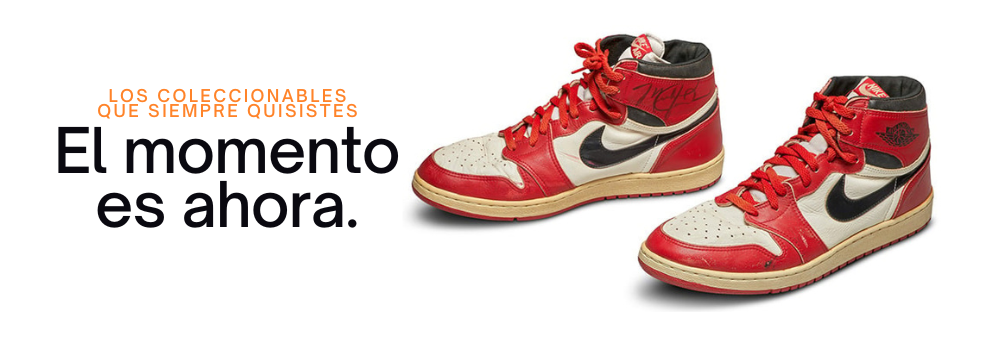
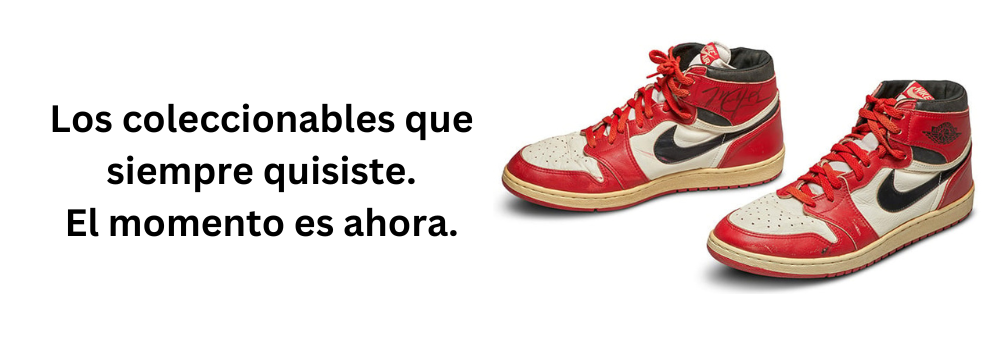
Cambiar imagenes del carrusel. (importante), Poder ver la contraseña cuando la escribo(ICONO), Hacer el carrusel mas pequeño.

diff --git a/src/components/EditPassword/EditPassword.jsx b/src/components/EditPassword/EditPassword.jsx
@@ -2,6 +2,8 @@ import React from 'react'
 import { useState } from 'react';
 import axios from 'axios';
 import { getDataUser } from '../../services/Auth';
+import { RiEyeFill, RiEyeOffFill } from 'react-icons/ri';
+
 
 function EditPassword({user}) {
   const idUser = getDataUser().id
@@ -14,6 +16,12 @@ function EditPassword({user}) {
 
   const [error, setError] = useState("");
   const [success, setSuccess] = useState('');
+  const [showPassword, setShowPassword] = useState(false);
+
+  const togglePasswordVisibility = () => {
+    setShowPassword(!showPassword);
+  };
+
 
   const validatePassword = (password,newPassword,confirmPassword) => {
     // Validación de contraseña utilizando una expresión regular
@@ -87,7 +95,7 @@ function EditPassword({user}) {
         </h2>
       </div>
       <form className="mt-6" onSubmit={handleSubmit}>
-        <div className="mb-4">
+        <div className="relative mb-4">
           <label
             htmlFor="password"
             className="block text-gray-700 text-sm font-medium"
@@ -96,13 +104,20 @@ function EditPassword({user}) {
           </label>
           <input
             name="password"
-            type="password"
+            type={showPassword ? 'text' : 'password'}
             className="mt-1 px-4 py-2 w-full border border-gray-300 rounded-md focus:outline-none focus:border-secondary-100"
             placeholder="Ultima contraseña"
             required
             value={formData.password}
             onChange={(e) => setformData({ ...formData, password: e.target.value })}
           />
+          <button
+              type="button"
+              onClick={togglePasswordVisibility}
+              className="absolute right-2 top-9 text-gray-600 hover:text-gray-800"
+            >
+              {showPassword ? <RiEyeOffFill /> : <RiEyeFill />}
+          </button>
         </div>
         <div className="mb-4">
           <label
@@ -113,7 +128,7 @@ function EditPassword({user}) {
           </label>
           <input
             name="newPassword"
-            type="password"
+            type={showPassword ? 'text' : 'password'}
             className="mt-1 px-4 py-2 w-full border border-gray-300 rounded-md focus:outline-none focus:border-secondary-100"
             placeholder="Nueva Contraseña"
             required
@@ -130,7 +145,7 @@ function EditPassword({user}) {
           </label>
           <input
             name="confirmPassword"
-            type="password"
+            type={showPassword ? 'text' : 'password'}
             className="mt-1 px-4 py-2 w-full border border-gray-300 rounded-md focus:outline-none focus:border-secondary-100"
             placeholder="Nueva Contraseña"
             value={formData.confirmPassword}

diff --git a/src/components/Register/RegisterComponent.jsx b/src/components/Register/RegisterComponent.jsx
@@ -1,6 +1,7 @@
 import React, { useState } from "react";
 import axios from "axios";
 import { useNavigate } from "react-router-dom";
+import { RiEyeFill, RiEyeOffFill } from 'react-icons/ri';
 
 function RegisterComponent() {
   const navigate = useNavigate();
@@ -15,6 +16,12 @@ function RegisterComponent() {
 
   const [error, setError] = useState("");
   const [success, setSuccess] = useState("");
+  const [showPassword, setShowPassword] = useState(false);
+
+  const togglePasswordVisibility = () => {
+    setShowPassword(!showPassword);
+  };
+
 
   const handleSubmit = (e) => {
     e.preventDefault();
@@ -167,7 +174,7 @@ function RegisterComponent() {
               />
             </div>
           </div>
-          <div className="grid grid-cols-2 gap-4 mb-6">
+          <div className="relative grid grid-cols-2 gap-4 mb-6">
             <div>
               <label
                 htmlFor="password"
@@ -176,7 +183,7 @@ function RegisterComponent() {
                 Contraseña
               </label>
               <input
-                type="password"
+                type={showPassword ? 'text' : 'password'}
                 name="password"
                 id="password"
                 onChange={handleInputChange}
@@ -184,6 +191,13 @@ function RegisterComponent() {
                 className="mt-1 px-4 py-2 w-full border border-gray-300 rounded-md focus:outline-none focus:border-secondary-200"
                 required
               />
+              <button
+                type="button"
+                onClick={togglePasswordVisibility}
+                className="absolute right-3 top-11 transform -translate-y-1/2 text-gray-600 hover:text-gray-800"
+              >
+                {showPassword ? <RiEyeOffFill /> : <RiEyeFill />}
+              </button>
             </div>
             <div>
               <label
@@ -193,7 +207,7 @@ function RegisterComponent() {
                 Confirmar Contraseña
               </label>
               <input
-                type="password"
+                type={showPassword ? 'text' : 'password'}
                 name="confirmPassword"
                 id="confirmPassword"
                 onChange={handleInputChange}
@@ -201,6 +215,7 @@ function RegisterComponent() {
                 className="mt-1 px-4 py-2 w-full border border-gray-300 rounded-md focus:outline-none focus:border-secondary-200"
                 required
               />
+              
             </div>
           </div>
           <div className="mb-6 flex items-start">

diff --git a/src/components/login/LoginComponent.jsx b/src/components/login/LoginComponent.jsx
@@ -2,6 +2,7 @@ import { useState } from "react";
 import { loginBackend } from "../../services/Auth";
 import { useAuthContext } from "../../contexts/authContext";
 import { Link } from "react-router-dom";
+import { RiEyeFill, RiEyeOffFill } from 'react-icons/ri';
 
 function LoginComponent() {
   const { login } = useAuthContext();
@@ -10,6 +11,11 @@ function LoginComponent() {
     password: "",
   });
   const [error, setError] = useState("");
+  const [showPassword, setShowPassword] = useState(false);
+
+  const togglePasswordVisibility = () => {
+    setShowPassword(!showPassword);
+  };
 
   const handleInputChange = (e) => {
     setError("");
@@ -84,21 +90,30 @@ function LoginComponent() {
               required
             />
           </div>
-          <div className="mb-4">
+          <div className="relative mb-4">
             <label
               htmlFor="password"
               className="block text-gray-700 text-sm font-medium"
             >
               Contraseña
             </label>
-            <input
-              name="password"
-              onChange={handleInputChange}
-              type="password"
-              className="mt-1 px-4 py-2 w-full border border-gray-300 rounded-md focus:outline-none focus:border-secondary-100"
-              placeholder="Tu Contraseña"
-              required
-            />
+            <div className="relative">
+              <input
+                name="password"
+                onChange={handleInputChange}
+                type={showPassword ? 'text' : 'password'}
+                className="mt-1 px-4 py-2 w-full border border-gray-300 rounded-md focus:outline-none focus:border-secondary-100"
+                placeholder="Tu Contraseña"
+                required
+              />
+              <button
+                type="button"
+                onClick={togglePasswordVisibility}
+                className="absolute right-3 top-1/2 transform -translate-y-1/2 text-gray-600 hover:text-gray-800"
+              >
+                {showPassword ? <RiEyeOffFill /> : <RiEyeFill />}
+              </button>
+            </div>
           </div>
           <div className="mb-6">
             <p className="text-red-600">{error}</p>

diff --git a/src/components/RecoverPassword/RecoverPasswordComponent.jsx b/src/components/RecoverPassword/RecoverPasswordComponent.jsx
@@ -1,6 +1,8 @@
 import axios from "axios";
 import { useEffect, useState } from "react";
 import { useParams, useNavigate } from "react-router-dom";
+import { RiEyeFill, RiEyeOffFill } from 'react-icons/ri';
+
 
 function RecoverPasswordComponent(user) {
     const { token } = useParams();
@@ -19,6 +21,11 @@ function RecoverPasswordComponent(user) {
 
   const [error, setError] = useState("");
   const [success, setSuccess] = useState('');
+  const [showPassword, setShowPassword] = useState(false);
+
+  const togglePasswordVisibility = () => {
+    setShowPassword(!showPassword);
+  };
 
   const validatePassword = (newPassword,confirmPassword) => {
     // Validación de contraseña utilizando una expresión regular
@@ -87,7 +94,7 @@ const handleSubmit = async (e) => {
         </h2>
       </div>
       <form className="mt-6" onSubmit={handleSubmit}>
-        <div className="mb-4">
+        <div className="relative mb-4">
           <label
             htmlFor="newPassword"
             className="block text-gray-700 text-sm font-medium"
@@ -96,13 +103,20 @@ const handleSubmit = async (e) => {
           </label>
           <input
             name="newPassword"
-            type="password"
+            type={showPassword ? 'text' : 'password'}
             className="mt-1 px-4 py-2 w-full border border-gray-300 rounded-md focus:outline-none focus:border-secondary-100"
             placeholder="Nueva Contraseña"
             required
             value={formData.newPassword}
             onChange={(e) => setformData({ ...formData, newPassword: e.target.value })}
           />
+          <button
+                type="button"
+                onClick={togglePasswordVisibility}
+                className="absolute right-3 top-11 transform -translate-y-1/2 text-gray-600 hover:text-gray-800"
+              >
+                {showPassword ? <RiEyeOffFill /> : <RiEyeFill />}
+          </button>
         </div>
         <div className="mb-4">
           <label

diff --git a/src/pages/recoverPassword.jsx b/src/pages/recoverPassword.jsx
@@ -1,12 +1,12 @@
-
+import { useParams } from "react-router-dom";
 import { useState, useEffect } from 'react';
 import axios from 'axios';
 import RecoverPasswordComponent from "../components/RecoverPassword/RecoverPasswordComponent";
-import Footer from '../components/Footer/Footer'
 import { getToken } from "../services/Auth";
 
 function recoverPassword() {
   const [user, setUser] = useState(null);
+  const { id } = useParams();
   const token = getToken();
   const config = {
     headers: {
@@ -15,21 +15,18 @@ function recoverPassword() {
   };
 
   useEffect(() => {
-    
     const fetchData = async () => {
       try {
         const response = await axios.get(
-          `http://localhost:3001/users/`, 
-          config
-        );
-        setUser(response);
+          `http://localhost:3001/users/${id}`, config);
+        setUser(response.data);
       } catch (error) {
         console.log(error);
       }
     };
 
     fetchData();
-  }, []);
+  }, [id]);
 
   return (
     <div>

diff --git a/src/components/Home/Carousel.jsx b/src/components/Home/Carousel.jsx
@@ -41,7 +41,7 @@ const Carousel = () => {
   };
 
   return (
-    <div className="carousel-container p-7 bg-white  border-4 border-secondary-300 mx-10 m-8 rounded-xl animate-fade animate-once animate-duration-[800ms] animate-delay-0">
+    <div className="carousel-containe bg-white  border-4 border-secondary-300 mx-10 m-8 rounded-xl animate-fade animate-once animate-duration-[800ms] animate-delay-0">
       <Slider {...settings} className="">
         {slides.map((slide, index) => (
           <div
@@ -52,7 +52,7 @@ const Carousel = () => {
             <img
               src={slide}
               alt={`Slide ${index + 1}`}
-              className="w-full h-full object-cover"
+              className="w-50% h-50% object-cover mx-auto"
             />
           </div>
         ))}
